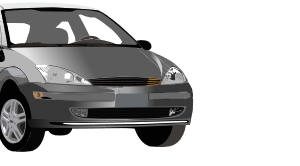
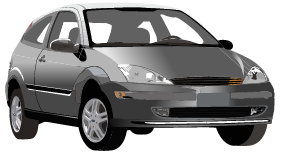
* improve svg samples

diff --git a/docs/svg/samples.html b/docs/svg/samples.html
@@ -9,7 +9,7 @@
 <tr><td><a target="_blank" href="samples/anim1.svg"><img src="samples/anim1.svg" /></a></td><td><img src="samples/anim1.png" /></td><td class="svgAlert">Animations are not supported.</td></tr>
 <tr><td><a target="_blank" href="samples/anim2.svg"><img src="samples/anim2.svg" /></a></td><td><img src="samples/anim2.png" /></td><td class="svgAlert">Animations are not supported.</td></tr>
 <tr><td><a target="_blank" href="samples/anim3.svg"><img src="samples/anim3.svg" /></a></td><td><img src="samples/anim3.png" /></td><td class="svgAlert">Animations are not supported.</td></tr>
-<tr><td><a target="_blank" href="samples/atom.svg"><img src="samples/atom.svg" /></a></td><td><img src="samples/atom.png" /></td><td class="svgGood">Just strange image position - it is OK.</td></tr>
+<tr><td><a target="_blank" href="samples/atom.svg"><img src="samples/atom.svg" /></a></td><td><img src="samples/atom.png" /></td><td class="svgGood">GOOD</td></tr>
 <tr><td><a target="_blank" href="samples/basura.svg"><img src="samples/basura.svg" /></a></td><td><img src="samples/basura.png" /></td><td class="svgGood">GOOD</td></tr>
 <tr><td><a target="_blank" href="samples/beacon.svg"><img src="samples/beacon.svg" /></a></td><td><img src="samples/beacon.png" /></td><td class="svgGood">GOOD</td></tr>
 <tr><td><a target="_blank" href="samples/betterplace.svg"><img src="samples/betterplace.svg" /></a></td><td><img src="samples/betterplace.png" /></td><td class="svgGood">GOOD</td></tr>
@@ -57,7 +57,7 @@
 <tr><td><a target="_blank" href="samples/erlang.svg"><img src="samples/erlang.svg" /></a></td><td><img src="samples/erlang.png" /></td><td class="svgGood">GOOD</td></tr>
 <tr><td><a target="_blank" href="samples/evol.svg"><img src="samples/evol.svg" /></a></td><td><img src="samples/evol.png" /></td><td class="svgGood">GOOD</td></tr>
 <tr><td><a target="_blank" href="samples/facebook.svg"><img src="samples/facebook.svg" /></a></td><td><img src="samples/facebook.png" /></td><td class="svgGood">GOOD</td></tr>
-<tr><td><a target="_blank" href="samples/faux-art.svg"><img src="samples/faux-art.svg" /></a></td><td><img src="samples/faux-art.png" /></td><td class="svgGood">Just strange image position - it is OK.</td></tr>
+<tr><td><a target="_blank" href="samples/faux-art.svg"><img src="samples/faux-art.svg" /></a></td><td><img src="samples/faux-art.png" /></td><td class="svgGood">GOOD</td></tr>
 <tr><td><a target="_blank" href="samples/fb.svg"><img src="samples/fb.svg" /></a></td><td><img src="samples/fb.png" /></td><td class="svgGood">GOOD</td></tr>
 <tr><td><a target="_blank" href="samples/feed.svg"><img src="samples/feed.svg" /></a></td><td><img src="samples/feed.png" /></td><td class="svgGood">GOOD</td></tr>
 <tr><td><a target="_blank" href="samples/feedsync.svg"><img src="samples/feedsync.svg" /></a></td><td><img src="samples/feedsync.png" /></td><td class="svgGood">GOOD</td></tr>
@@ -72,7 +72,7 @@
 <tr><td><a target="_blank" href="samples/gnome2.svg"><img src="samples/gnome2.svg" /></a></td><td><img src="samples/gnome2.png" /></td><td class="svgGood">GOOD</td></tr>
 <tr><td><a target="_blank" href="samples/google.svg"><img src="samples/google.svg" /></a></td><td><img src="samples/google.png" /></td><td class="svgGood">GOOD</td></tr>
 <tr><td><a target="_blank" href="samples/gpg.svg"><img src="samples/gpg.svg" /></a></td><td><img src="samples/gpg.png" /></td><td class="svgGood">GOOD</td></tr>
-<tr><td><a target="_blank" href="samples/gump-bench.svg"><img src="samples/gump-bench.svg" /></a></td><td><img src="samples/gump-bench.png" /></td><td class="svgGood">Just strange image position - it is OK.</td></tr>
+<tr><td><a target="_blank" href="samples/gump-bench.svg"><img src="samples/gump-bench.svg" /></a></td><td><img src="samples/gump-bench.png" /></td><td class="svgGood">GOOD</td></tr>
 <tr><td><a target="_blank" href="samples/heart.svg"><img src="samples/heart.svg" /></a></td><td><img src="samples/heart.png" /></td><td class="svgGood">GOOD</td></tr>
 <tr><td><a target="_blank" href="samples/heliocentric.svg"><img src="samples/heliocentric.svg" /></a></td><td><img src="samples/heliocentric.png" /></td><td class="svgGood">GOOD</td></tr>
 <tr><td><a target="_blank" href="samples/helloworld.svg"><img src="samples/helloworld.svg" /></a></td><td><img src="samples/helloworld.png" /></td><td class="svgAlert">CSS is not supported (background color).</td></tr>

diff --git a/docs/svg/index.html b/docs/svg/index.html
@@ -28,7 +28,7 @@
 			<h2>Test samples</h2>
 			<p>Next table show conversion result SVG =&gt; NFL=&gt; PNG.</p>
 			<p>PNG images produced in batch mode by next command:</p>
-			<pre><code>nanoflc.exe NAME.svg -resize-fit 300x200 -export NAME.png</code></pre>
+			<pre><code>nanoflc.exe NAME.svg -generator CreateJS,mode=HTML -resize-fit 300x200 -export NAME.png</code></pre>
 			<p>Sometimes images may have strange position/size - it is normal (this mean strange position/size in SVG).</p>
 			<table class="table svgTable">
 				<tr><th>Original SVG</th><th>Exported to NanoFL</th><th>Comments</th></tr>

diff --git a/docs/flash/index.html b/docs/flash/index.html
@@ -30,7 +30,7 @@
 			<h2>Test samples</h2>
 			<p>Next table show conversion result FLA =&gt; NFL.</p>
 			<p>NFL documents produced in batch mode by next command:</p>
-			<pre><code>nanoflc.exe NAME.fla -generator CreateJS/HTML -scaleMode fit -export NAME.nfl</code></pre>
+			<pre><code>nanoflc.exe NAME.fla -generator CreateJS,mode=HTML -scaleMode fit -export NAME.nfl</code></pre>
 			<table class="table flashTable">
 				<tr><th>Original FLA (SWF)</th><th>Result NFL (CreateJS/HTML)</th><th>Comments</th></tr>
 				{samples.html}

diff --git a/docs/write_plugin/index.md b/docs/write_plugin/index.md
@@ -4,16 +4,16 @@ NanoFL has several points to be extended by plugins.
 You can write plugin on TypeScript or Haxe (or even on pure JavaScript).
 Using NanoFL PluginAPI declaration files (`nanofl.d.ts` for TypeScript and `*.hx` for Haxe) making development simple.
 
-Each plugin is just a `*.js` file in **plugins** application folder.
-Also, that folder may contain a directory with plugin-related files.
-By convection, this directory must be named same as a plugin.
+Each plugin is a class inside a `*.js` file in **plugins** application folder.
+Also, this folder may contain a directory with plugin-related files.
+By convection, that directory must be named same as a plugin.
 
 There are several types of the plugins are supported:
 
 * [Loader](#loader) - loading library items from files;
-* [Importer](#importer) - importing graphics/sounds/fonts/etc from third-party formats into NanoFL documents;
-* [Exporter](#exporter) - exporting graphics/sounds/fonts/etc from NanoFL documents into third-party formats;
-* [Filter](#filter) - a raster transformation applyed to symbol instances;
+* [Importer](#importer) - importing from third-party formats into NanoFL documents;
+* [Exporter](#exporter) - exporting from NanoFL documents into third-party formats;
+* [Filter](#filter) - a raster transformation for a symbol instances;
 * [Generator](#generator) - generating files on save (compiling, publishing);
 
 
@@ -27,7 +27,6 @@ Plugin file must contain registration code (executed on plugin load):
 nanofl.engine.Plugins.registerLoader(new MyPluginClass());
 
 ```
-Plugin file may not have any public variables/functions - core interacts with plugin only by reference from `registerLoader`.
 
 For example of the loader plugin written on Haxe, see [StdLoadersPlugin](https://bitbucket.org/nanofl/plugins/src/default/StdLoadersPlugin).
 
@@ -44,7 +43,6 @@ Plugin file must contain registration code (executed on plugin load):
 nanofl.engine.Plugins.registerImporter(new MyPluginClass());
 
 ```
-Plugin file may not have any public variables/functions - core interacts with plugin only by reference from `registerImporter`.
 
 For example of the importer plugin written on Haxe, see [FlashImporterPlugin](https://bitbucket.org/nanofl/plugins/src/default/FlashImporterPlugin).
 
@@ -62,8 +60,6 @@ Plugin file must contain registration code (executed on plugin load):
 nanofl.engine.Plugins.registerExporter(new MyPluginClass());
 
 ```
-Plugin file may not have any public variables/functions -
-core interacts with plugin only by reference from `registerExporter`.
 
 For example of the exporter plugin written on Haxe, see [SvgExporterPlugin](https://bitbucket.org/nanofl/plugins/src/default/SvgExporterPlugin).
 
@@ -89,8 +85,6 @@ Plugin file must contain registration code (executed on plugin load):
 nanofl.engine.Plugins.registerFilter(new MyPluginClass());
 
 ```
-Plugin file may not have any public variables/functions -
-core interacts with plugin only by reference from `registerFilter`.
 
 The source code of the filter plugin concatenated to generated result file (`*.html` or `*.js`)
 if at least one of the plugin's filters was used in NanoFL document.
@@ -99,19 +93,16 @@ if at least one of the plugin's filters was used in NanoFL document.
 
 ## Generator
 Generator plugin is a class which implements `nanofl.ide.plugins.IGeneratorPlugin` interface.
-The main method of this class, called by NanoFL IDE, is `generateFiles`.
-This method must generate files depend on specified `mode` from data from received `documentProperties` and `library` objects.
+The main method of this class, called by NanoFL IDE, is `generate`.
+This method must generate files from received `documentProperties` and `library` objects.
 
 Plugin file must contain registration code (executed on plugin load):
 ```
 nanofl.engine.Plugins.registerGenerator(new MyPluginClass());
 
 ```
-Plugin file may not have any public variables/functions -
-core interacts with plugin only by reference from `registerGenerator`.
 
 For example of the generator plugin written on Haxe, see [CreateJSGeneratorPlugin](https://bitbucket.org/nanofl/plugins/src/default/CreateJSGeneratorPlugin).
-
 
 ----------------------------------------------------------------------------------------------------
 <a href="https://bitbucket.org/nanofl/site/src/default/docs/write_plugin/index.md" target="_blank">Edit this page at bitbucket</a>

diff --git a/blocks/mainSub.md b/blocks/mainSub.md
@@ -1,9 +1,9 @@
 ## Plugins included
 
- * [Importer from Flash](/docs/flash/)
- * [Importer from SVG](/docs/svg/)
- * [Exporter into SVG](/docs/svg/)
- * CreateJS generator
+ * [Flash Importer](/docs/flash/)
+ * [SVG Importer](/docs/svg/)
+ * [SVG Exporter](/docs/svg/)
+ * CreateJS Generator
  
 	* JavaScript language
 	* TypeScript language
@@ -14,9 +14,9 @@
 <div style="height:40px">&nbsp;</div>
 
 <img src="/images/html5.png" height="65" />
-<img src="/images/js.png" height="65" style="margin-left:5px" />
-<img src="/images/createjs-ver.png" height="65" style="margin-left:5px" />
-<img src="/images/haxe-ver.png" height="65" style="margin-left:5px" />
-<img src="/images/flash-develop.png" height="67" style="margin-top:20px" />
-<img src="/images/typescript.png" height="60" style="margin-top:15px" />
-<img src="/images/visual-studio-2013.png" height="60" style="margin-top:20px" />
+<a href="https://www.javascript.com/" target="_blank"><img src="/images/js.png" height="65" style="margin-left:5px" /></a>
+<a href="http://createjs.com/" target="_blank"><img src="/images/createjs-ver.png" height="65" style="margin-left:5px" /></a>
+<a href="http://haxe.org/" target="_blank"><img src="/images/haxe-ver.png" height="65" style="margin-left:5px" /></a>
+<a href="http://www.flashdevelop.org/" target="_blank"><img src="/images/flash-develop.png" height="67" style="margin-top:20px" /></a>
+<a href="http://www.typescriptlang.org/" target="_blank"><img src="/images/typescript.png" height="60" style="margin-top:15px" /></a>
+<a href="https://www.visualstudio.com/" target="_blank"><img src="/images/visual-studio-2013.png" height="60" style="margin-top:20px" /></a>

diff --git a/docs/command_line.md b/docs/command_line.md
@@ -24,7 +24,7 @@ Options sequence is important: NanoFL process options consecutive from the first
 * `<path to js script file to execute>` - Load specified JavaScript file and execute the code.
 * `-export <output file path>` - Export or save current document depends on output file extension.
 * `-resize-fit <width>x<height>` - Resize document to fit specified size. `<width>` or `<height>` can be ommited.
-* `-generator <name>/<mode>` - Set document's generator and it's mode. If mode ommited, then the first mode will be used. For example: "CreateJS/HTML" or just "CreateJS".
+* `-generator <name>,<param1>=<value1>,<param2>=<value2>...` - Set document's generator and its parameters.
 * `-scaleMode <mode>` - Set document's [scale mode](/docs/scaleMode/) (`noScale`, `fit`, `fill`, `stretch` and `custom` are supported). Default is `noScale`.
 * `-script <js code>` - Run specified js code. See [scripts](/docs/scripts/).
 * `-fps` - Show frames per second HUD.

diff --git a/blocks/mainContent.md b/blocks/mainContent.md
@@ -12,10 +12,11 @@
 * Filters: Adjust Color, Blur, Drop Shadow, Glow (Need more? [Write a plugin](/docs/write_plugin/)!)
 * Linear and radial gradients, filling with a bitmap
 * Working with text on canvas (web fonts from local files and Google Fonts are supported)
-* [Texture atlases](/docs/texture_atlases/)
+* SpriteSheets / Texture Atlases in library ([CreateJS/Zoe](http://www.createjs.com/zoe) format is only supported for a while)
 * Generating HTML on save: view result movie in your favorite browser (`CreateJSGenerator` plugin)
 * Generating project files for your favorite IDE on save (`CreateJSGenerator` plugin)
 * [CreateJS](http://createjs.com/)-based generated code (`CreateJSGenerator` plugin)
+* [Generating Texture Atlases](/docs/generate_texture_atlases/)
 * [Batch processing](/docs/command_line/)
 * [Scripts](/docs/scripts/) support
 

diff --git a/blocks/mainAbout.md b/blocks/mainAbout.md
@@ -2,7 +2,7 @@
 
 Design animated banners, movie clips and games.
 
-Add interactivity with JavaScript, TypeScript or Haxe.
+Add interactivity with [JavaScript](https://www.javascript.com/), [TypeScript](http://www.typescriptlang.org/) or [Haxe](http://haxe.org/).
 
 Any customizations of the result html/js are allowed.
 	
